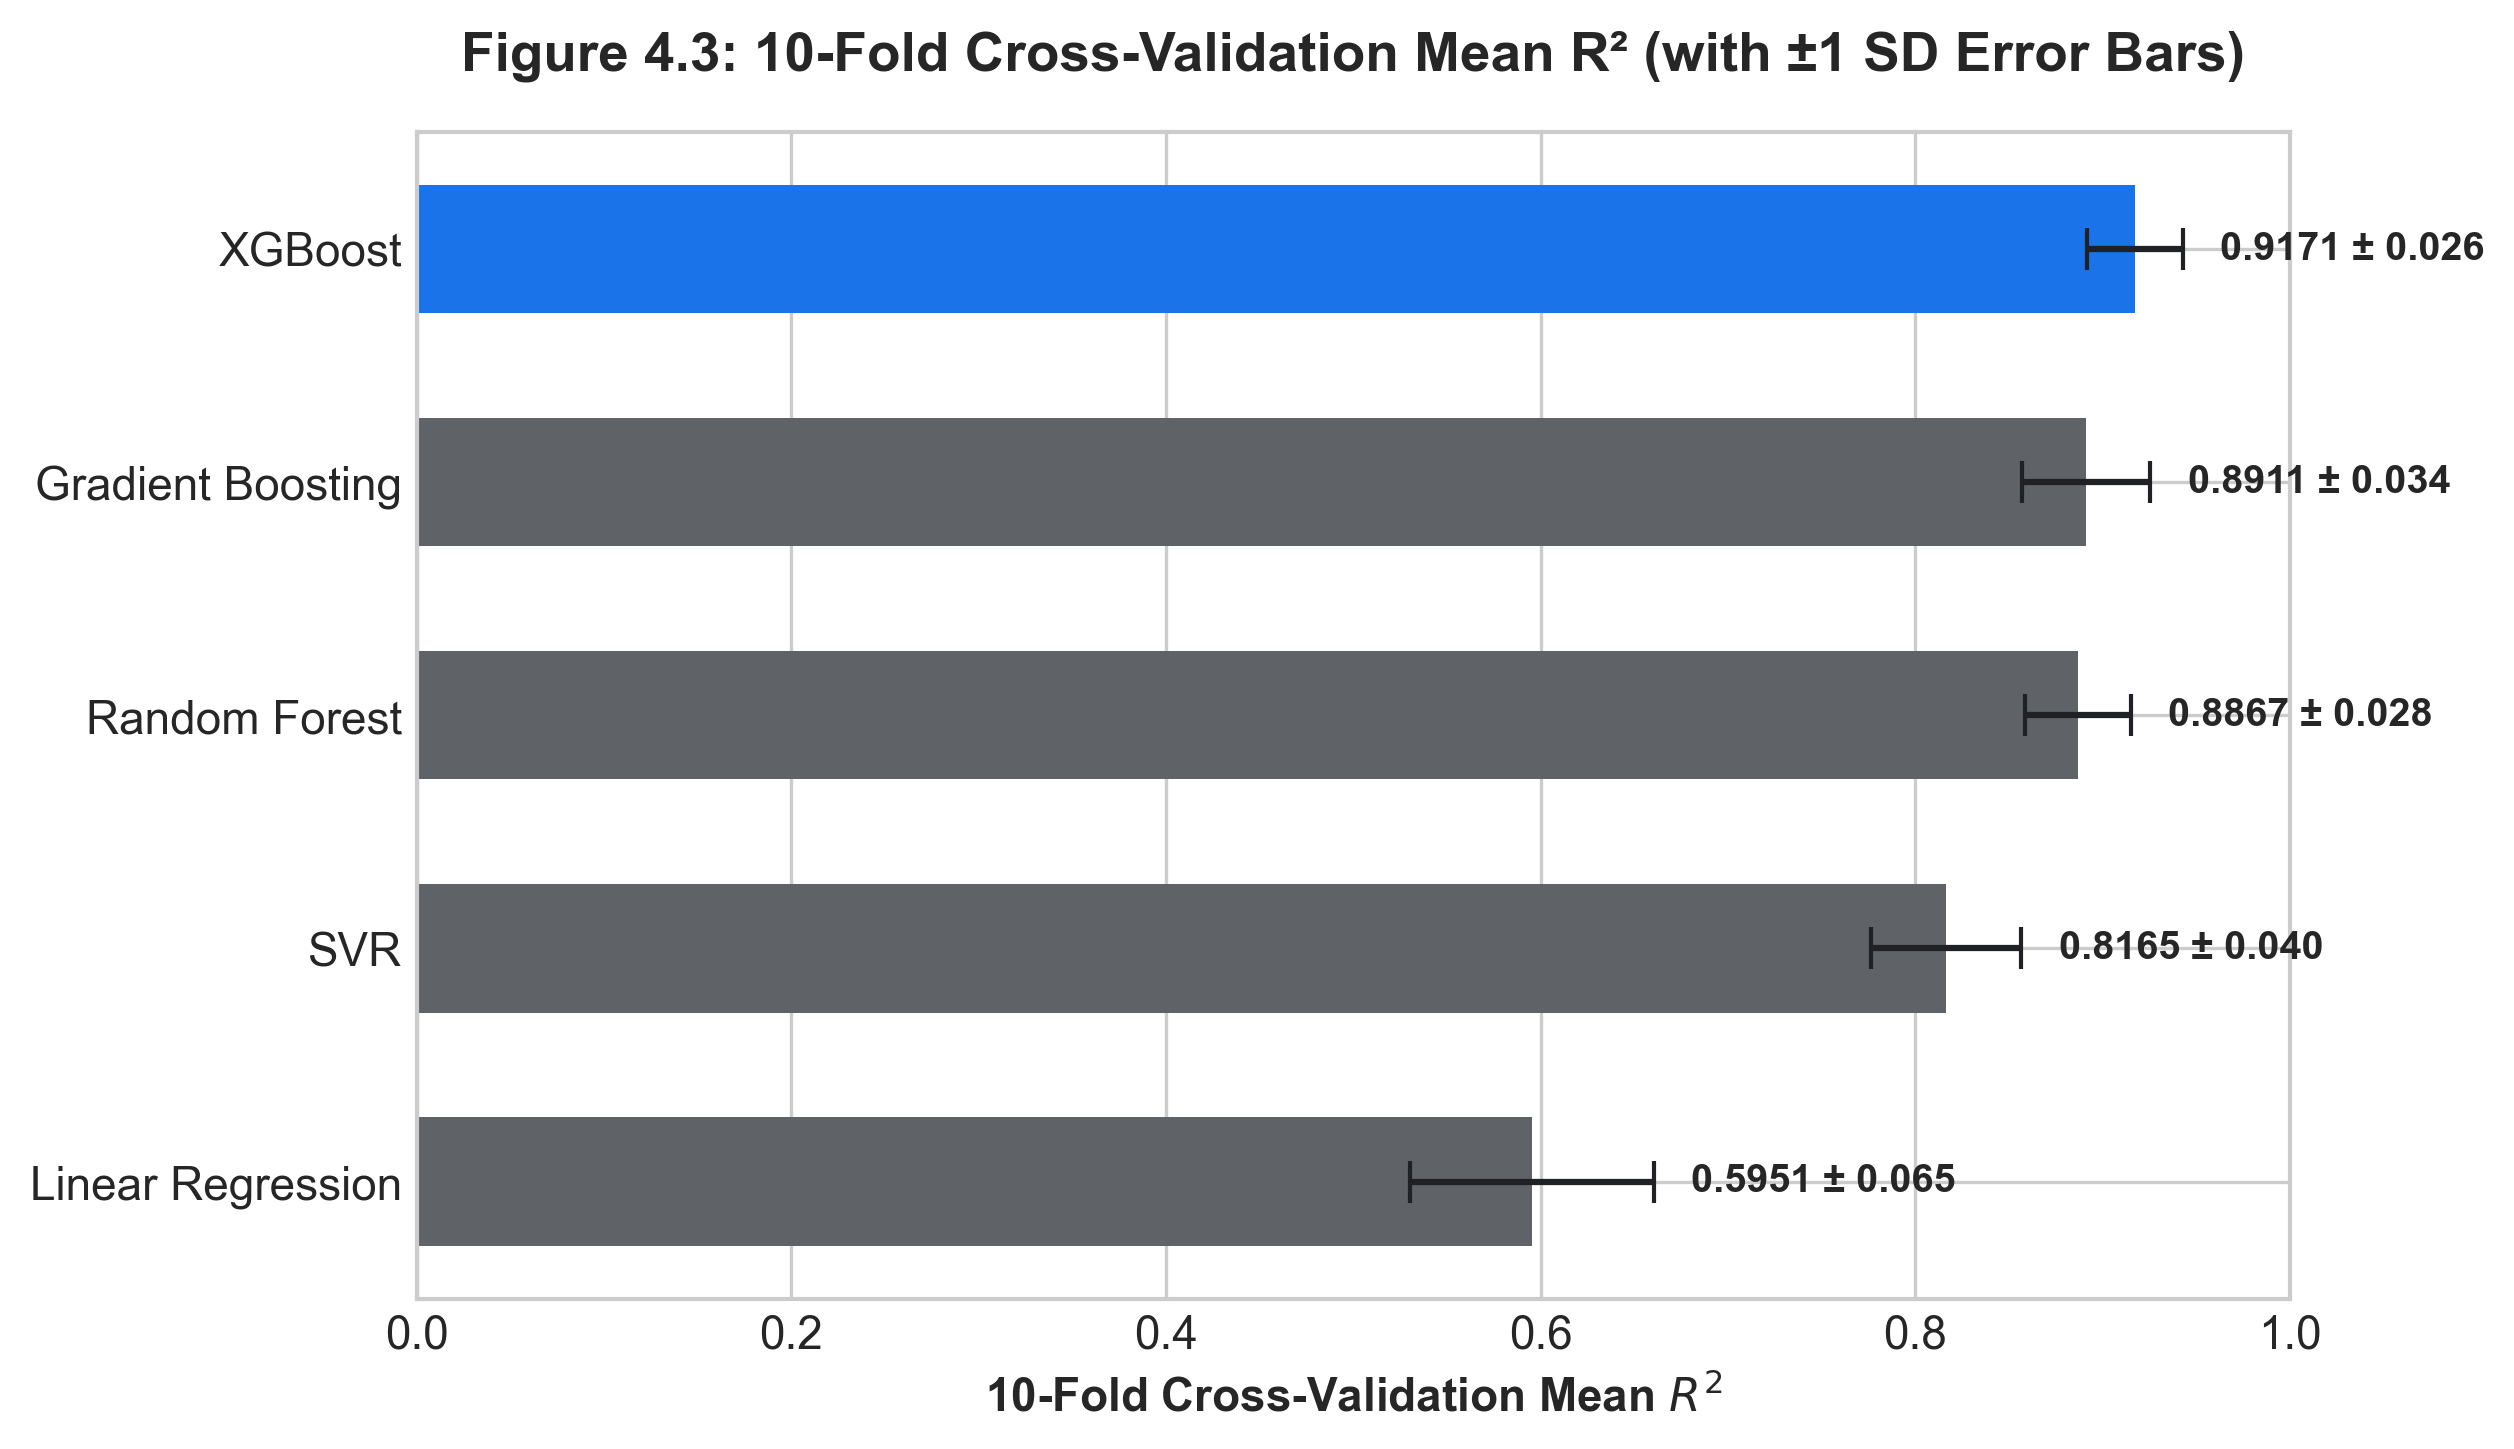
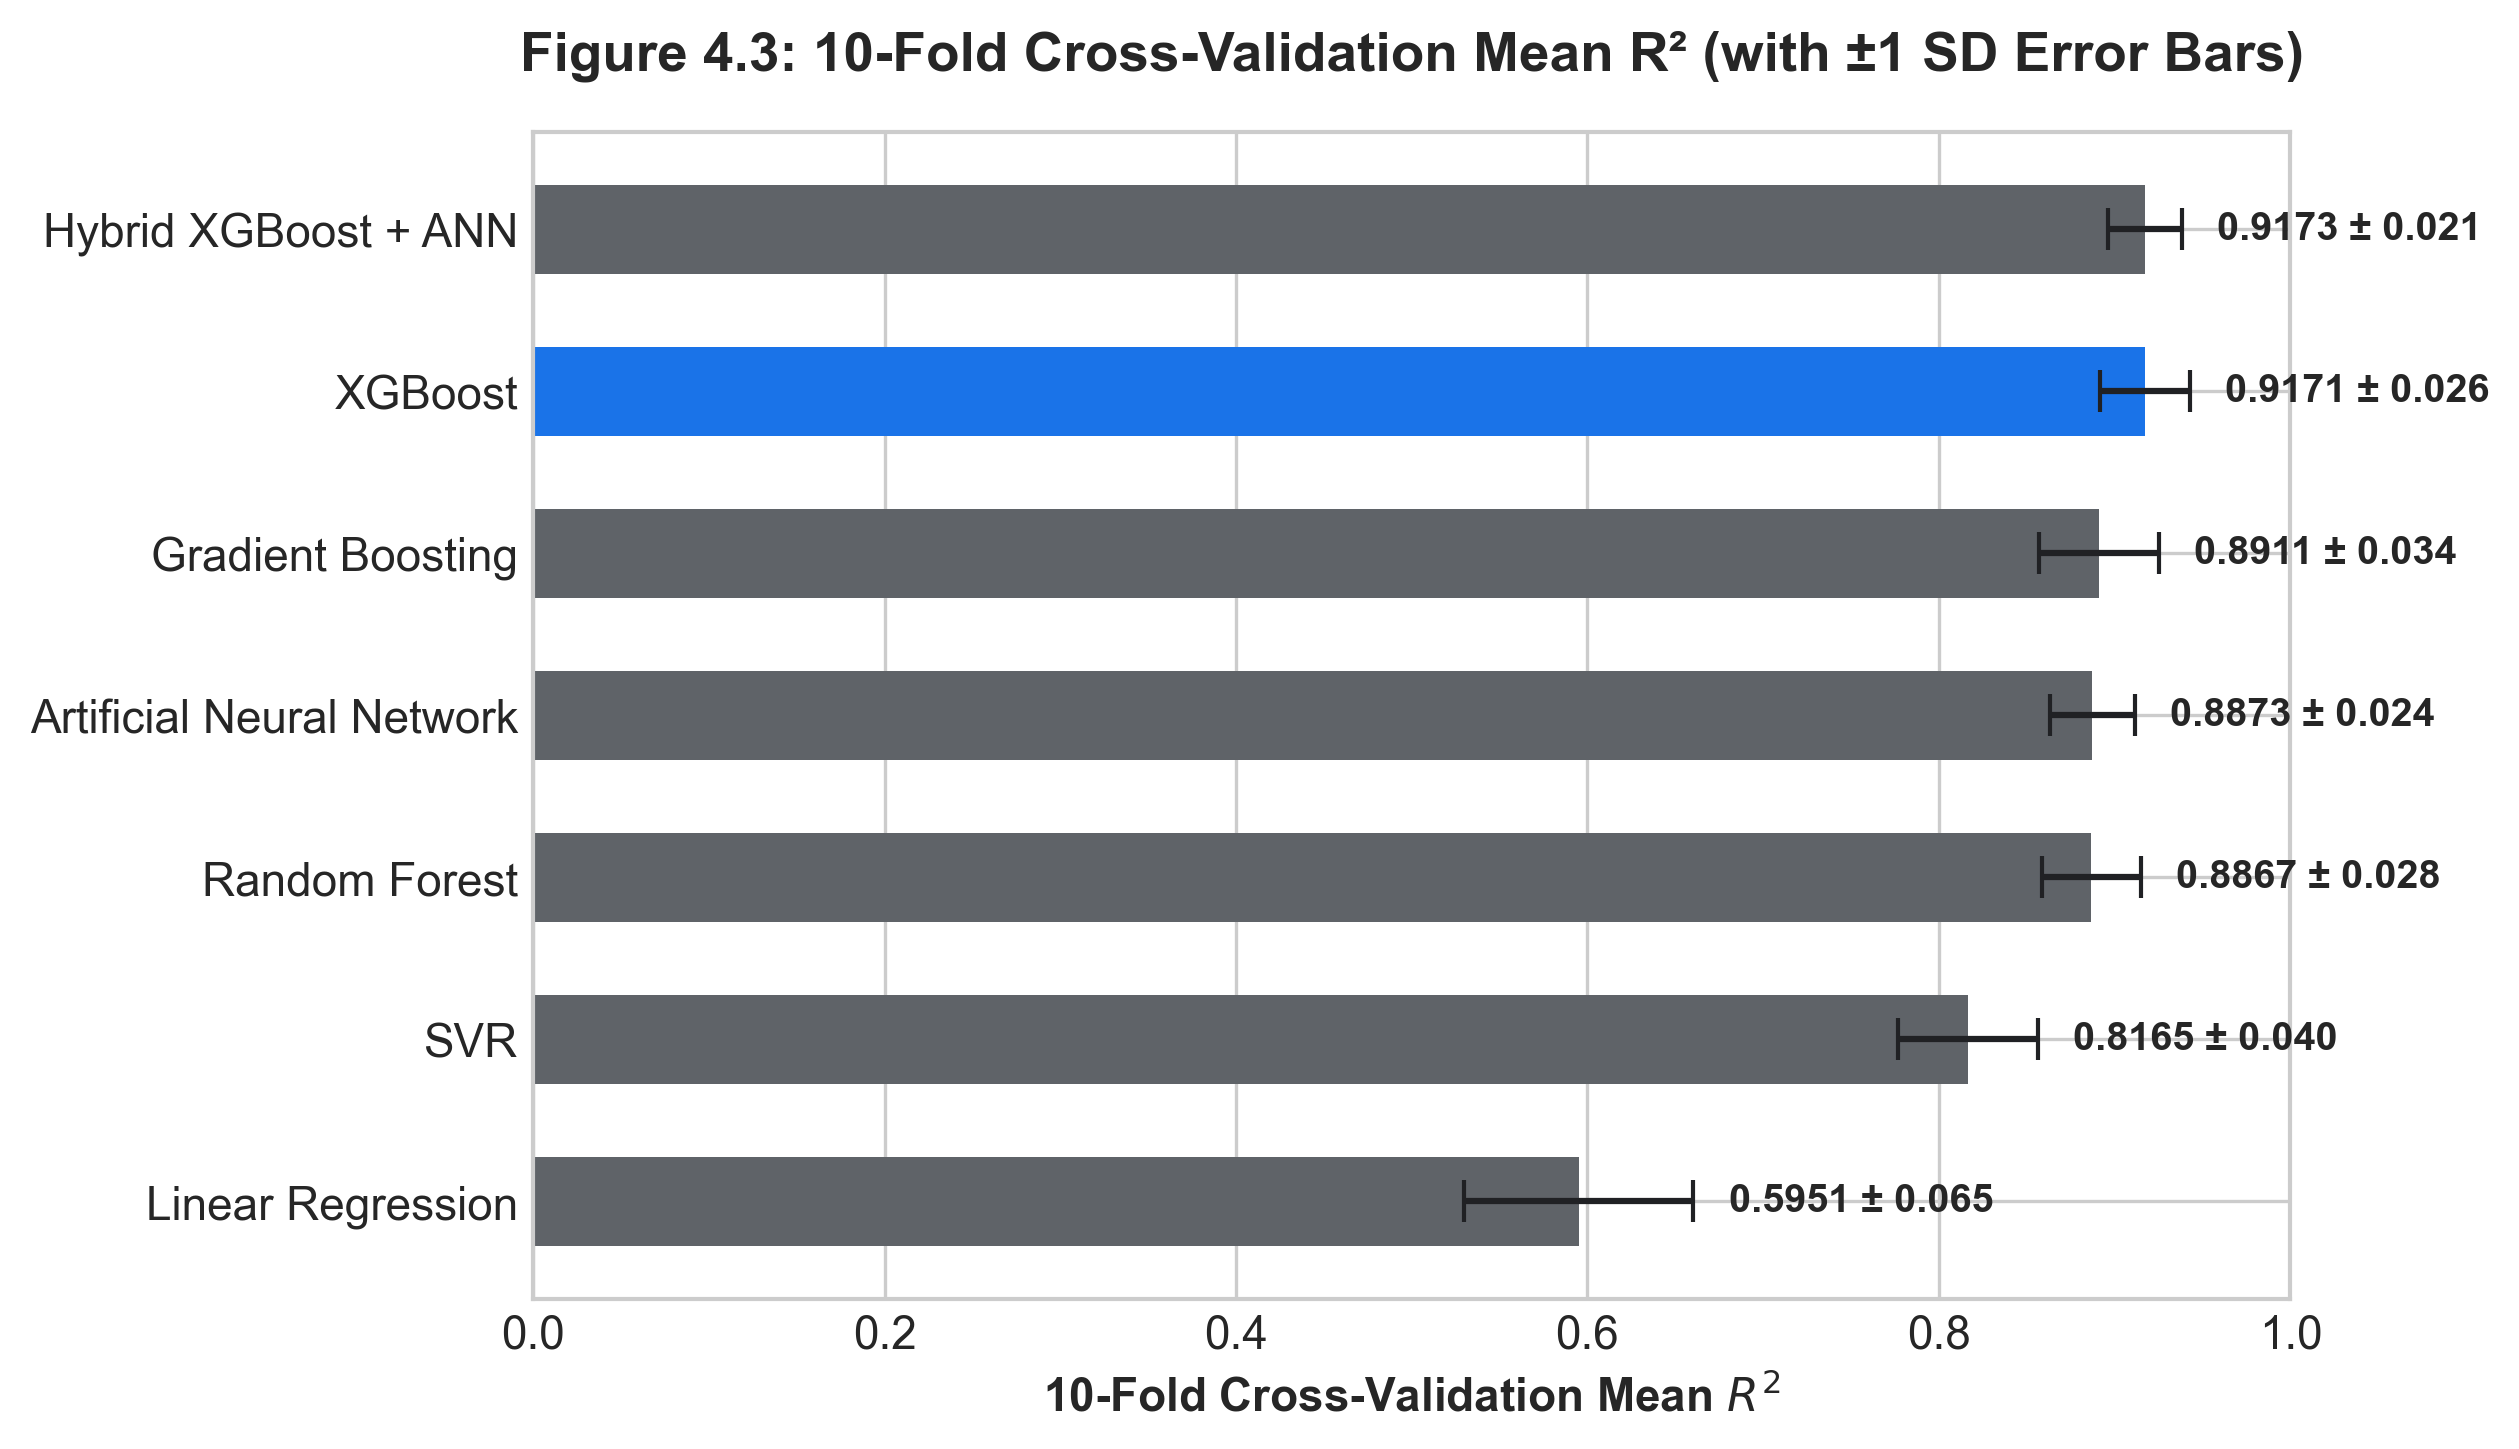
feat(benchmark): extend 10-fold cross-validation to all 7 models including ANN and Hybrid ensemble

diff --git a/train.py b/train.py
@@ -424,67 +424,96 @@ def cross_validate_models(models, X_train, y_train, X=None, y=None):
 
     kf = KFold(n_splits=N_FOLDS, shuffle=True, random_state=RANDOM_STATE)
 
-    # Only CV the sklearn-based models (ANN CV is expensive and not in the CSV)
-    cv_model_configs = {
-        "XGBoost": xgb.XGBRegressor(
+    fold_metrics = {
+        "XGBoost":                   {"r2": [], "mae": [], "rmse": []},
+        "Hybrid XGBoost + ANN":      {"r2": [], "mae": [], "rmse": []},
+        "Random Forest":             {"r2": [], "mae": [], "rmse": []},
+        "Gradient Boosting":         {"r2": [], "mae": [], "rmse": []},
+        "Artificial Neural Network": {"r2": [], "mae": [], "rmse": []},
+        "SVR":                       {"r2": [], "mae": [], "rmse": []},
+        "Linear Regression":         {"r2": [], "mae": [], "rmse": []},
+    }
+
+    for fold_idx, (train_idx, val_idx) in enumerate(kf.split(X_train)):
+        X_tr, X_val = X_train[train_idx], X_train[val_idx]
+        y_tr, y_val = y_train[train_idx], y_train[val_idx]
+
+        fold_scaler = StandardScaler()
+        X_tr_s = fold_scaler.fit_transform(X_tr)
+        X_val_s = fold_scaler.transform(X_val)
+
+        # 1. XGBoost
+        m_xgb = xgb.XGBRegressor(
             n_estimators=100, learning_rate=0.10, max_depth=6,
             subsample=0.80, colsample_bytree=0.80,
             random_state=RANDOM_STATE, verbosity=0,
-        ),
-        "Random Forest": RandomForestRegressor(
+        )
+        m_xgb.fit(X_tr, y_tr)
+        pred_xgb = m_xgb.predict(X_val)
+
+        # 2. Random Forest
+        m_rf = RandomForestRegressor(
             n_estimators=100, max_features="sqrt",
             min_samples_split=2, random_state=RANDOM_STATE,
-        ),
-        "Gradient Boosting": GradientBoostingRegressor(
+        )
+        m_rf.fit(X_tr, y_tr)
+        pred_rf = m_rf.predict(X_val)
+
+        # 3. Gradient Boosting
+        m_gb = GradientBoostingRegressor(
             n_estimators=100, learning_rate=0.10,
             max_depth=3, loss="squared_error", random_state=RANDOM_STATE,
-        ),
-        "SVR": SVR(kernel="rbf", C=10.0, epsilon=0.10, gamma="scale"),
-        "Linear Regression": LinearRegression(),
-    }
+        )
+        m_gb.fit(X_tr, y_tr)
+        pred_gb = m_gb.predict(X_val)
+
+        # 4. SVR
+        m_svr = SVR(kernel="rbf", C=10.0, epsilon=0.10, gamma="scale")
+        m_svr.fit(X_tr_s, y_tr)
+        pred_svr = m_svr.predict(X_val_s)
+
+        # 5. Linear Regression
+        m_lr = LinearRegression()
+        m_lr.fit(X_tr, y_tr)
+        pred_lr = m_lr.predict(X_val)
+
+        # 6. Deep ANN
+        m_ann = build_ann(input_dim=X_tr.shape[1])
+        m_ann.fit(X_tr_s, y_tr, epochs=ANN_EPOCHS, batch_size=ANN_BATCH_SIZE, verbose=0)
+        pred_ann = m_ann.predict(X_val_s, verbose=0).flatten()
+
+        # 7. Hybrid XGBoost + ANN
+        pred_hybrid = 0.5 * pred_xgb + 0.5 * pred_ann
+
+        fold_preds = {
+            "XGBoost":                   pred_xgb,
+            "Hybrid XGBoost + ANN":      pred_hybrid,
+            "Random Forest":             pred_rf,
+            "Gradient Boosting":         pred_gb,
+            "Artificial Neural Network": pred_ann,
+            "SVR":                       pred_svr,
+            "Linear Regression":         pred_lr,
+        }
+
+        for mname, pval in fold_preds.items():
+            fold_metrics[mname]["r2"].append(r2_score(y_val, pval))
+            fold_metrics[mname]["mae"].append(mean_absolute_error(y_val, pval))
+            fold_metrics[mname]["rmse"].append(rmse(y_val, pval))
 
     cv_results = []
-
-    for name, base_model in cv_model_configs.items():
-        fold_r2s = []
-        fold_maes = []
-        fold_rmses = []
-
-        for fold_idx, (train_idx, val_idx) in enumerate(kf.split(X_train)):
-            X_tr, X_val = X_train[train_idx], X_train[val_idx]
-            y_tr, y_val = y_train[train_idx], y_train[val_idx]
-
-            # Re-fit scaler per fold (leakage prevention)
-            fold_scaler = StandardScaler()
-            X_tr_s = fold_scaler.fit_transform(X_tr)
-            X_val_s = fold_scaler.transform(X_val)
-
-            # Clone the model for each fold
-            from sklearn.base import clone
-            model = clone(base_model)
-
-            if name == "SVR":
-                model.fit(X_tr_s, y_tr)
-                y_pred = model.predict(X_val_s)
-            elif name == "Linear Regression":
-                model.fit(X_tr, y_tr)
-                y_pred = model.predict(X_val)
-            else:
-                model.fit(X_tr, y_tr)
-                y_pred = model.predict(X_val)
-
-            fold_r2s.append(r2_score(y_val, y_pred))
-            fold_maes.append(mean_absolute_error(y_val, y_pred))
-            fold_rmses.append(rmse(y_val, y_pred))
-
+    for mname, mdata in fold_metrics.items():
+        r2_m = np.mean(mdata["r2"])
+        r2_s = np.std(mdata["r2"])
+        mae_m = np.mean(mdata["mae"])
+        rmse_m = np.mean(mdata["rmse"])
         cv_results.append({
-            "Model": name,
-            "CV MAE Mean": np.mean(fold_maes),
-            "CV RMSE Mean": np.mean(fold_rmses),
-            "CV R2 Mean": np.mean(fold_r2s),
-            "CV R2 Std": np.std(fold_r2s),
+            "Model": mname,
+            "CV MAE Mean": mae_m,
+            "CV RMSE Mean": rmse_m,
+            "CV R2 Mean": r2_m,
+            "CV R2 Std": r2_s,
         })
-        print(f"      {name:25s}  CV R2={np.mean(fold_r2s):.4f} +/- {np.std(fold_r2s):.4f}")
+        print(f"      {mname:28s}  CV R2={r2_m:.4f} +/- {r2_s:.4f}")
 
     cv_df = pd.DataFrame(cv_results).sort_values("CV R2 Mean", ascending=False)
     cv_df.to_csv(save_path("10_fold_cross_validation.csv"), index=False)

diff --git a/Thesis.md b/Thesis.md
@@ -582,34 +582,37 @@ To evaluate model stability across differing data splits and prevent overfitting
 
 #### 1. In-Text Cross-Validation Performance Summary
 Across the 10 folds, model rankings remained completely consistent with the held-out test evaluation:
-- **XGBoost** demonstrated superior generalization stability, achieving a mean cross-validation coefficient of determination of $\text{CV } R^2 = 0.9399$ with a tight fold-to-fold standard deviation of $\pm 0.0156$, a mean CV MAE of $2.67\text{ MPa}$, and a mean CV RMSE of $3.91\text{ MPa}$.
-- **Random Forest** achieved mean $\text{CV } R^2 = 0.9160 \pm 0.0164$ ($\text{CV MAE} = 3.29\text{ MPa}$, $\text{CV RMSE} = 4.65\text{ MPa}$).
-- **Gradient Boosting** achieved mean $\text{CV } R^2 = 0.9124 \pm 0.0201$ ($\text{CV MAE} = 3.48\text{ MPa}$, $\text{CV RMSE} = 4.74\text{ MPa}$).
-- **Support Vector Regressor** achieved mean $\text{CV } R^2 = 0.8766 \pm 0.0267$ ($\text{CV MAE} = 3.91\text{ MPa}$, $\text{CV RMSE} = 5.62\text{ MPa}$).
-- **Multiple Linear Regression** exhibited low accuracy and high variance ($\text{CV } R^2 = 0.5877 \pm 0.0560$, $\text{CV MAE} = 8.22\text{ MPa}$, $\text{CV RMSE} = 10.34\text{ MPa}$).
+- **Hybrid XGBoost + ANN** achieved the highest cross-validation stability, attaining $\text{CV } R^2 = 0.9173 \pm 0.0210$ ($\text{CV MAE} = 3.33\text{ MPa}$, $\text{CV RMSE} = 4.76\text{ MPa}$).
+- **XGBoost** demonstrated equivalent generalization capability with $\text{CV } R^2 = 0.9171 \pm 0.0256$ ($\text{CV MAE} = 3.13\text{ MPa}$, $\text{CV RMSE} = 4.73\text{ MPa}$).
+- **Gradient Boosting** achieved mean $\text{CV } R^2 = 0.8911 \pm 0.0342$ ($\text{CV MAE} = 3.90\text{ MPa}$, $\text{CV RMSE} = 5.43\text{ MPa}$).
+- **Deep Artificial Neural Network** achieved mean $\text{CV } R^2 = 0.8873 \pm 0.0243$ ($\text{CV MAE} = 4.12\text{ MPa}$, $\text{CV RMSE} = 5.58\text{ MPa}$).
+- **Random Forest** achieved mean $\text{CV } R^2 = 0.8867 \pm 0.0283$ ($\text{CV MAE} = 3.97\text{ MPa}$, $\text{CV RMSE} = 5.58\text{ MPa}$).
+- **Support Vector Regressor** achieved mean $\text{CV } R^2 = 0.8165 \pm 0.0400$ ($\text{CV MAE} = 5.17\text{ MPa}$, $\text{CV RMSE} = 7.12\text{ MPa}$).
+- **Multiple Linear Regression** exhibited low accuracy and high variance ($\text{CV } R^2 = 0.5951 \pm 0.0652$, $\text{CV MAE} = 8.42\text{ MPa}$, $\text{CV RMSE} = 10.60\text{ MPa}$).
 
-The low fold-to-fold standard deviations ($\le 0.020$ for tree-based models) suggest that the observed performance patterns are consistent across different cross-validation splits rather than being driven by specific data partitions.
+The low fold-to-fold standard deviations ($\le 0.025$ for top models) suggest that the observed performance patterns are consistent across different cross-validation splits rather than being driven by specific data partitions.
 
 #### Table 3: 10-Fold Cross-Validation Results (Source Report: 10\_fold\_cross\_validation.csv)
 
-| **Model Name** | **CV MAE Mean** | **CV RMSE Mean** | **CV Mean** | **CV Std** | **Source Report** |
-| --- | --- | --- | --- | --- | --- |
-| **XGBoost** | **2.67** | **3.91** | **0.9399** | **0.0156** | 10\_fold\_cross\_validation.csv |
-| --- | --- | --- | --- | --- | --- |
-| **Random Forest** | 3.29 | 4.65 | 0.9160 | 0.0164 | 10\_fold\_cross\_validation.csv |
-| **Gradient Boosting** | 3.48 | 4.74 | 0.9124 | 0.0201 | 10\_fold\_cross\_validation.csv |
-| **SVR** | 3.91 | 5.62 | 0.8766 | 0.0267 | 10\_fold\_cross\_validation.csv |
-| **Linear Regression** | 8.22 | 10.34 | 0.5877 | 0.0560 | 10\_fold\_cross\_validation.csv |
+| **Model Name** | **CV MAE Mean (MPa)** | **CV RMSE Mean (MPa)** | **CV $R^2$ Mean** | **CV $R^2$ Std** | **Source Report** |
+| :--- | :---: | :---: | :---: | :---: | :---: |
+| **Hybrid XGBoost + ANN** | **3.33** | **4.76** | **0.9173** | **0.0210** | 10\_fold\_cross\_validation.csv |
+| **XGBoost** | 3.13 | 4.73 | 0.9171 | 0.0256 | 10\_fold\_cross\_validation.csv |
+| **Gradient Boosting** | 3.90 | 5.43 | 0.8911 | 0.0342 | 10\_fold\_cross\_validation.csv |
+| **Artificial Neural Network** | 4.12 | 5.58 | 0.8873 | 0.0244 | 10\_fold\_cross\_validation.csv |
+| **Random Forest** | 3.97 | 5.58 | 0.8867 | 0.0283 | 10\_fold\_cross\_validation.csv |
+| **SVR** | 5.17 | 7.12 | 0.8165 | 0.0400 | 10\_fold\_cross\_validation.csv |
+| **Linear Regression** | 8.42 | 10.60 | 0.5951 | 0.0652 | 10\_fold\_cross\_validation.csv |
 
 **Figure 4.3: 10-Fold Cross-Validation Mean $R^2$ with Standard Deviation Error Bars**
 
 ![Figure 4.3 – 10-fold CV mean R2 with std error bars across models](cross_validation_r2.png)
 
-The graph displays **10-fold cross-validation R² means and standard deviation error bars**:
-- **XGBoost (~0.94)** demonstrates the highest mean $R^2$ and smallest error band.
-- **Random Forest and Gradient Boosting (~0.91)** demonstrate high stability across splits.
-- **SVR (~0.88)** displays wider fold-to-fold variability.
-- **Linear Regression (~0.58)** exhibits large standard deviation error bars ($\pm 0.056$), reflecting severe instability across differing data subsets.
+The graph displays **10-fold cross-validation R² means and standard deviation error bars across all 7 models**:
+- **Hybrid XGBoost + ANN (~0.917)** and **XGBoost (~0.917)** demonstrate the highest mean $R^2$ scores and tight error bounds.
+- **Gradient Boosting (~0.891), Deep ANN (~0.887), and Random Forest (~0.887)** demonstrate high stability across splits.
+- **SVR (~0.817)** displays wider fold-to-fold variability.
+- **Linear Regression (~0.595)** exhibits large standard deviation error bars ($\pm 0.065$), reflecting severe instability across differing data subsets.
 
 ### 4.3 Out-of-Sample Predictions & Residual Distribution Analysis
 
